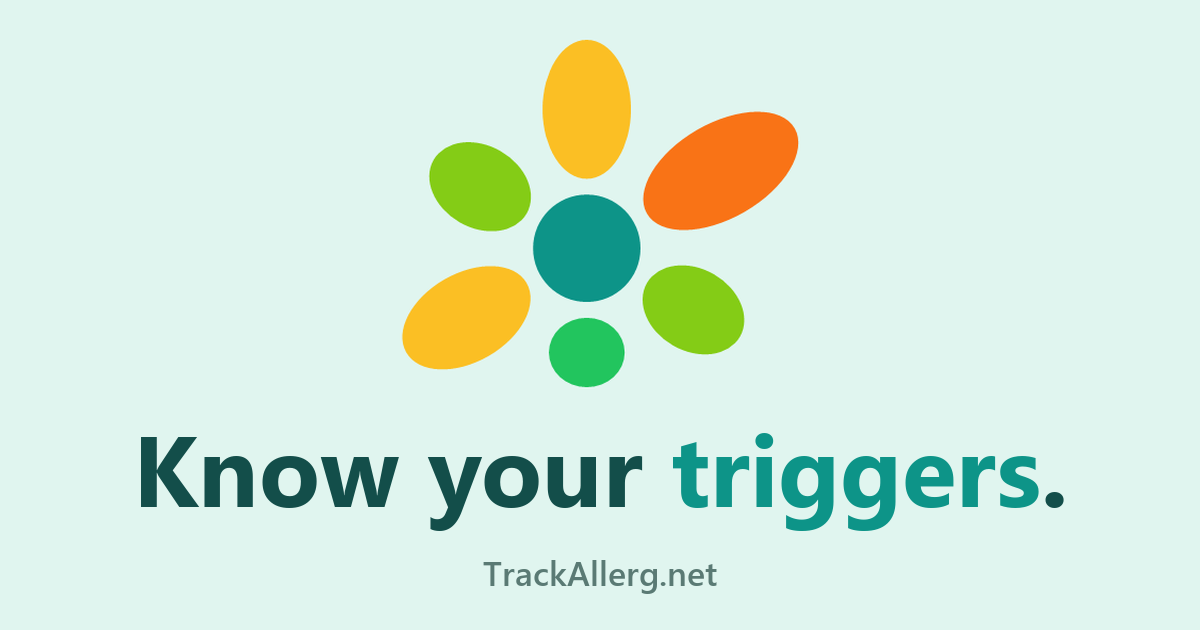
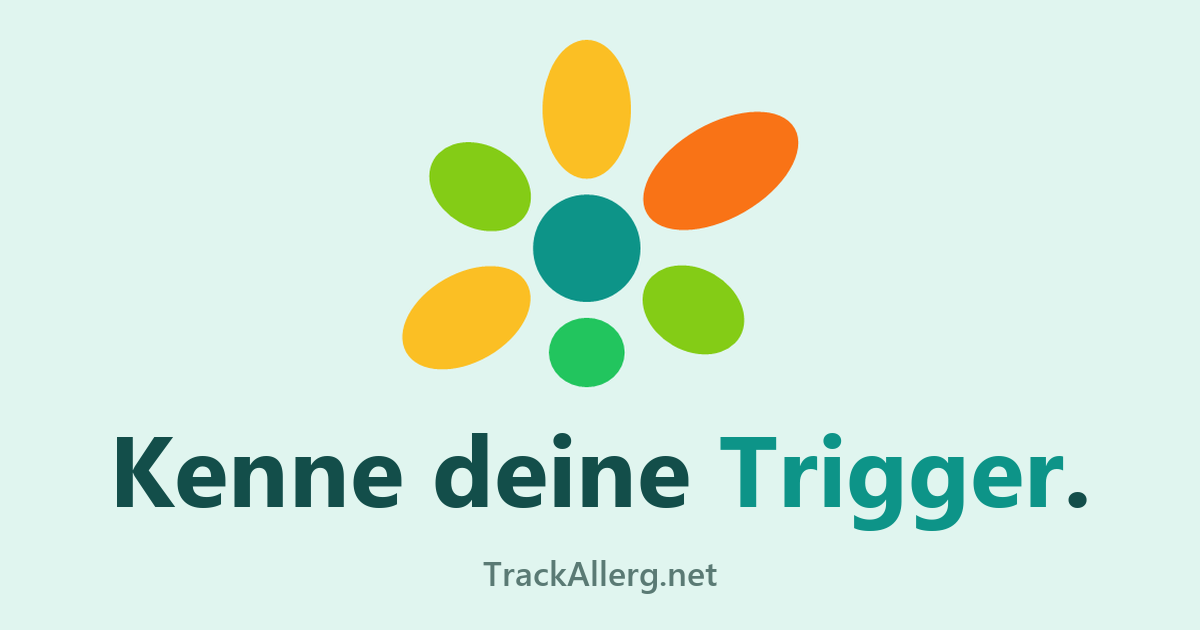
Localise the announcement page and OG card in German
'Kenne deine Trigger.' as the line - Trigger over Auslöser, which is
established in German health usage and avoids the camera-shutter
reading. Larger TrackAllerg name in camelCase so the purpose reads,
wider vertical rhythm, and the email loses its underline.

Changed region(s): [[0.0925, 0.6937, 0.925, 0.8444]]

diff --git a/index.html b/index.html
@@ -1,14 +1,15 @@
 <!DOCTYPE html>
-<html lang="en">
+<html lang="de">
   <head>
     <meta charset="utf-8">
     <meta name="viewport" content="width=device-width, initial-scale=1">
-    <title>TrackAllerg — know your triggers</title>
-    <meta name="description" content="TrackAllerg — allergy and symptom tracking, matched against the pollen and weather you were actually in. Coming soon.">
+    <title>TrackAllerg — kenne deine Trigger</title>
+    <meta name="description" content="TrackAllerg — Allergie- und Symptomtracking, abgeglichen mit Pollen und Wetter, denen du wirklich ausgesetzt warst. Demnächst für Android.">
     <meta name="theme-color" content="#E0F5EF">
-    <meta property="og:title" content="TrackAllerg — know your triggers">
-    <meta property="og:description" content="Allergy and symptom tracking, matched against the pollen and weather you were actually in. Coming soon.">
+    <meta property="og:title" content="TrackAllerg — kenne deine Trigger">
+    <meta property="og:description" content="Allergie- und Symptomtracking, abgeglichen mit Pollen und Wetter, denen du wirklich ausgesetzt warst. Demnächst für Android.">
     <meta property="og:type" content="website">
+    <meta property="og:locale" content="de_DE">
     <meta property="og:url" content="https://trackallerg.net/">
     <meta property="og:image" content="https://trackallerg.net/og.png">
     <meta property="og:image:width" content="1200">
@@ -48,33 +49,32 @@
         align-items:center;
         justify-content:center;
         text-align:center;
-        padding:clamp(24px,6vw,64px) clamp(20px,5vw,40px);
+        padding:clamp(28px,6vw,64px) clamp(20px,5vw,40px);
       }
       .flower{width:clamp(180px,32vw,260px);height:auto}
       .name{
-        margin-top:clamp(14px,2.4vw,22px);
-        font-size:.85rem;
+        margin-top:clamp(22px,3.4vw,32px);
+        font-size:1.3rem;
         font-weight:700;
-        letter-spacing:.16em;
-        text-transform:uppercase;
+        letter-spacing:.04em;
         color:var(--faint);
       }
       h1{
-        margin-top:.35em;
-        font-size:clamp(2.2rem,7vw,3.4rem);
+        margin-top:.85em;
+        font-size:clamp(2.1rem,6.6vw,3.4rem);
         font-weight:700;
         letter-spacing:-.025em;
         line-height:1.05;
       }
       h1 .t{color:var(--teal)}
       .desc{
-        margin-top:1em;
+        margin-top:1.4em;
         color:var(--body);
         font-size:clamp(1rem,2.2vw,1.15rem);
-        max-width:44ch;
+        max-width:46ch;
       }
       .pill{
-        margin-top:clamp(22px,3.5vw,30px);
+        margin-top:clamp(40px,6vw,56px);
         display:inline-block;
         background:var(--ink);
         color:#fff;
@@ -86,12 +86,10 @@
         padding:.65em 1.4em;
       }
       .mail{
-        margin-top:clamp(20px,3vw,26px);
+        margin-top:clamp(26px,4vw,36px);
         font-weight:600;
         color:var(--teal);
         text-decoration:none;
-        border-bottom:2px solid currentColor;
-        padding-bottom:1px;
       }
       .mail:hover{color:var(--ink)}
 
@@ -111,16 +109,16 @@
   </head>
 <body>
   <main>
-    <img class="flower" src="flower.png" alt="The TrackAllerg flower mark" width="440" height="389">
+    <img class="flower" src="flower.png" alt="Das TrackAllerg-Blumensymbol" width="440" height="389">
     <p class="name">TrackAllerg</p>
-    <h1>Know your <span class="t">triggers</span>.</h1>
-    <p class="desc">Allergy and symptom tracking, matched against the pollen and weather you were actually in &mdash; so the pattern shows up before the next flare does.</p>
-    <p class="pill">Coming soon to Android</p>
+    <h1>Kenne deine <span class="t">Trigger</span>.</h1>
+    <p class="desc">Allergie- und Symptomtracking, abgeglichen mit Pollen und Wetter, denen du wirklich ausgesetzt warst &mdash; so zeigt sich das Muster, bevor der nächste Schub kommt.</p>
+    <p class="pill">Demnächst für Android</p>
     <a class="mail" href="mailto:hi@trackallerg.net">hi@trackallerg.net</a>
   </main>
   <footer>
-    <a href="privacy-policy.html">Privacy policy</a>
-    <a href="account-deletion.html">Account deletion</a>
+    <a href="privacy-policy.html">Datenschutzerklärung</a>
+    <a href="account-deletion.html">Konto löschen</a>
     <span>&copy; A51</span>
   </footer>
 </body>
